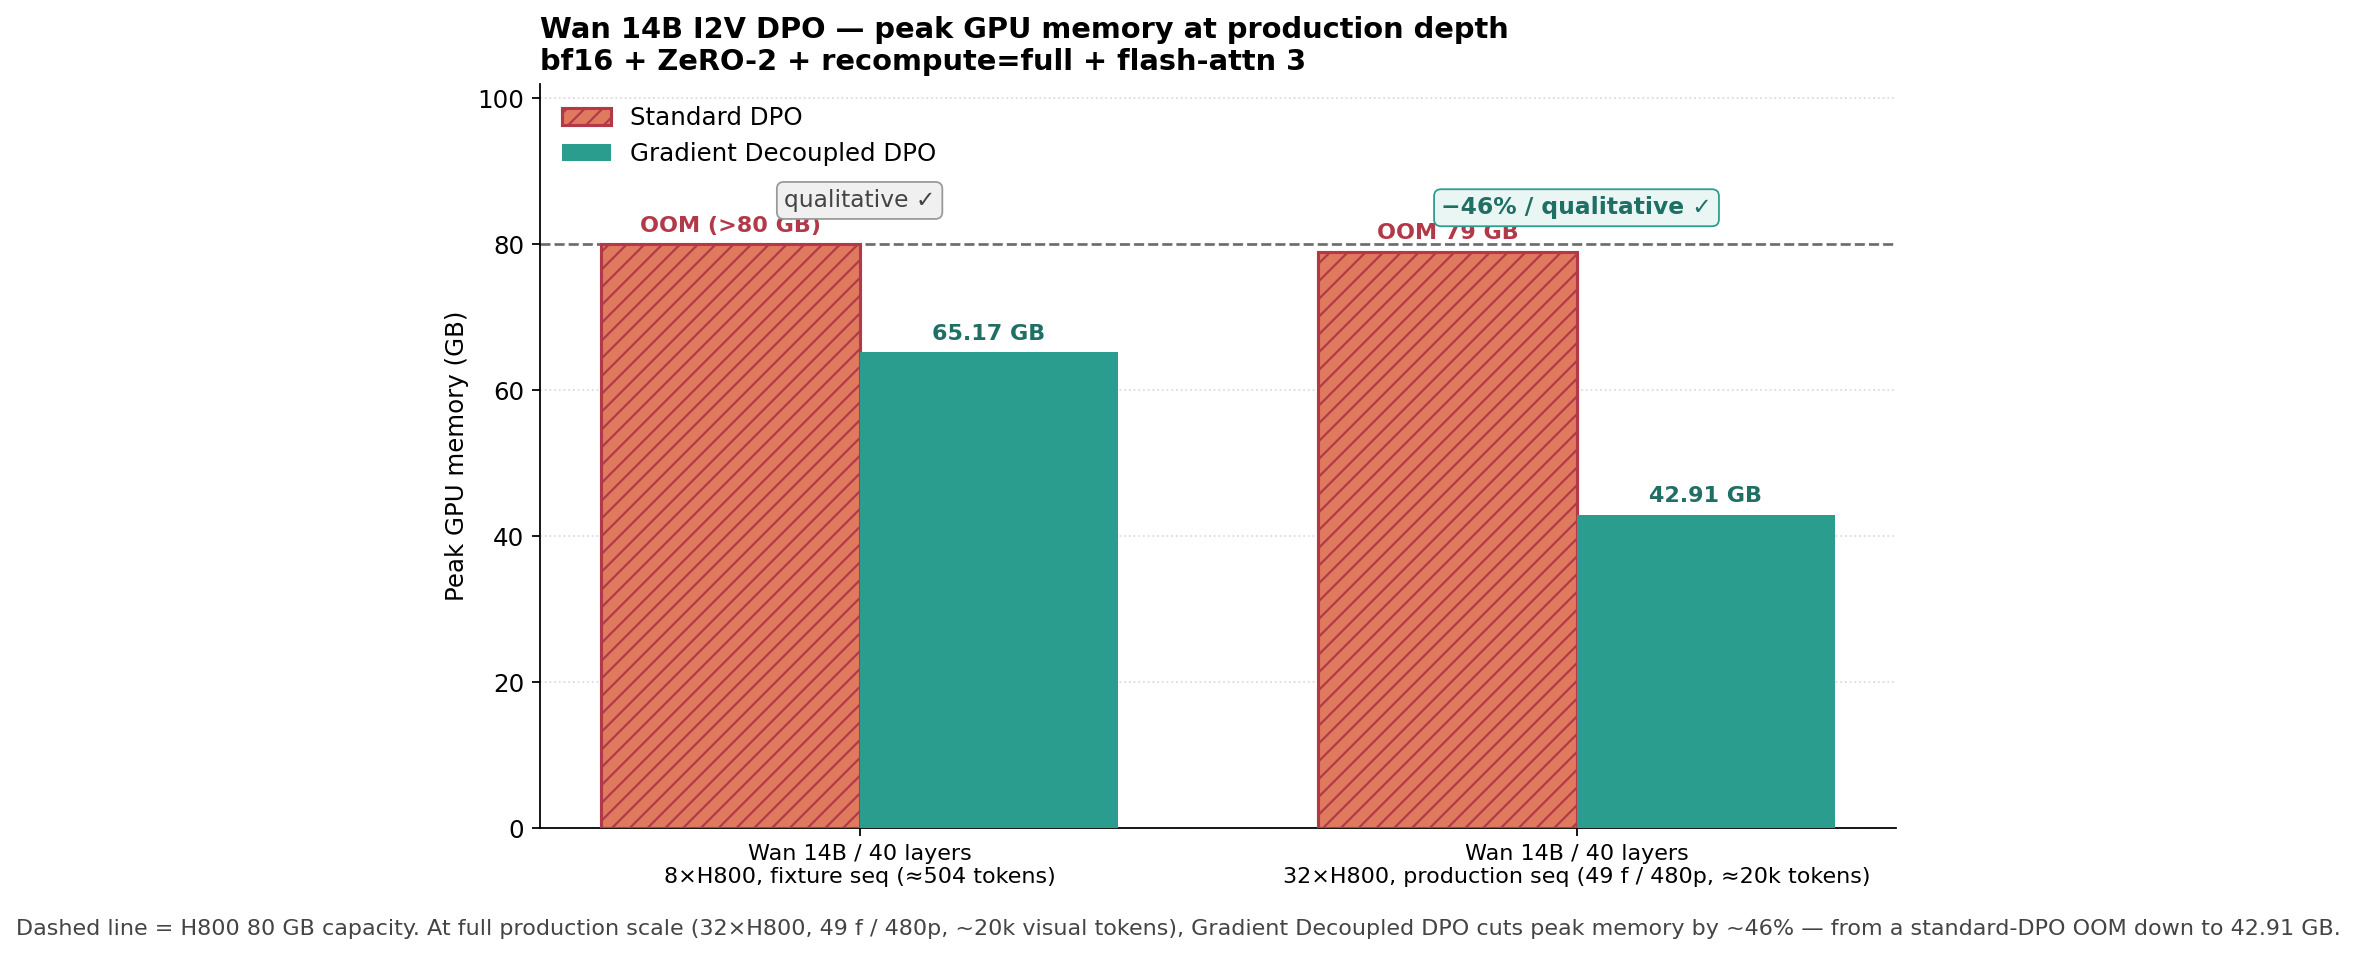
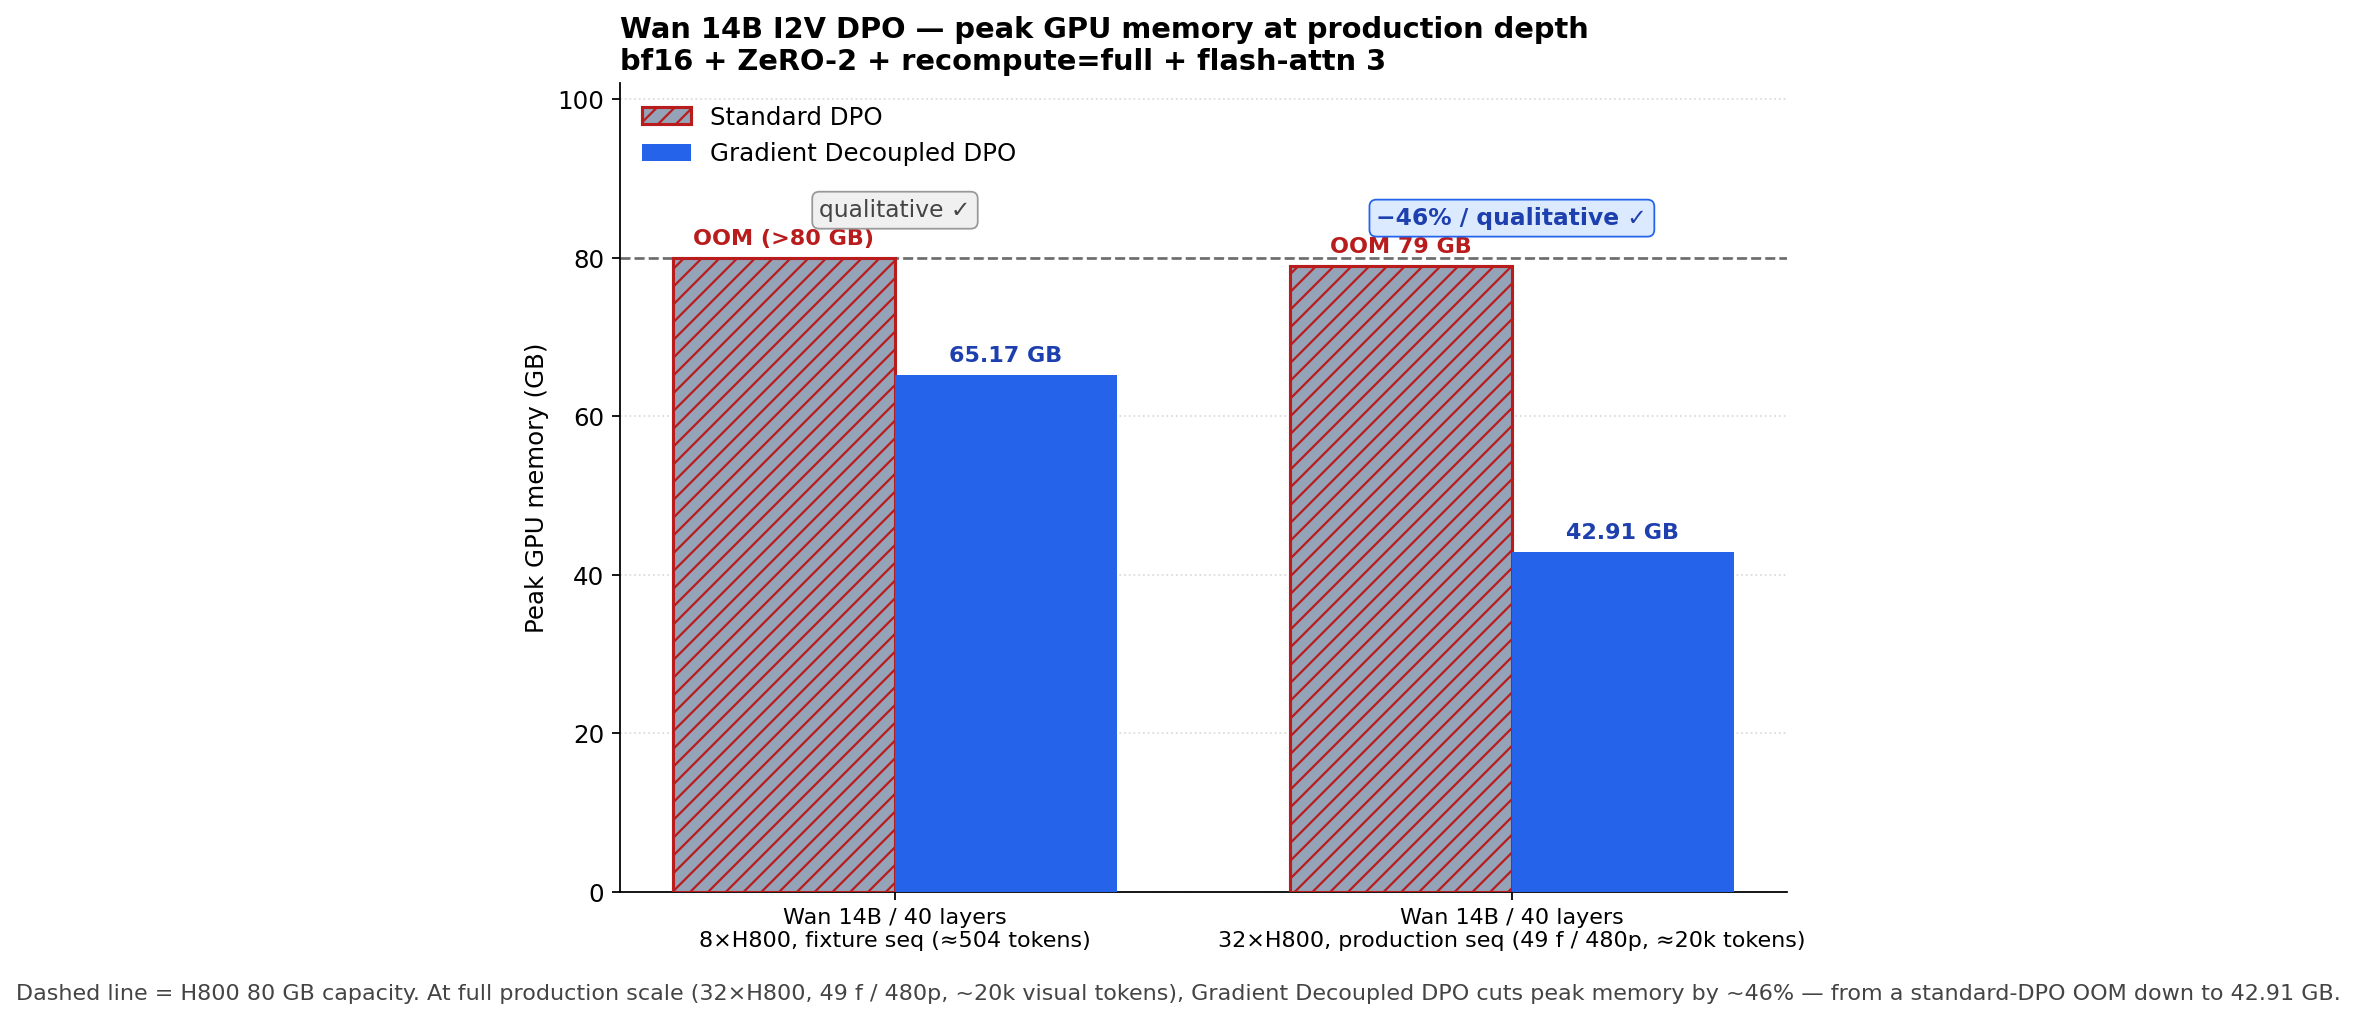
README + hero figure: render fixes and visual polish
README:
* Repository layout: root dir name was Teletron/, now TeleBoost/, to
  match the actual checkout dir of `git clone Tele-AI/TeleBoost`.
* Built on line: replace "+ DeepSpeed ZeRO-2." with
  "and DeepSpeed ZeRO-2." — the leading "+" at line start was being
  rendered as a markdown list item on GitHub, breaking the paragraph
  into a stray bullet.
* Headline blurb: drop the "OOMs at 79 GB" wording — saying a process
  "uses 79 GB" while also saying it OOM'd is internally contradictory.
  Replace with the cleaner "crashes with OOM on the 80 GB H800". The
  79 GB number is still in the table, where the OOM context is clear.

Hero figure (fig_memory_vs_layers.png):
* Recolor: orange-red Standard + teal Decoupled looked harsh.
  Switch to neutral slate-gray (Standard, with red hatching to mark
  OOM) + saturated blue (Decoupled). Δ-badge follows the same blue
  family (light-blue fill, blue-600 border, blue-800 text).
* Re-proportion: figsize 9.5×5.8 → 8.5×6.2 — the previous landscape
  ratio made the bars feel stretched; the slightly squarer frame
  reads more balanced.

diff --git a/documents/figures/make_figures.py b/documents/figures/make_figures.py
@@ -12,9 +12,9 @@ import numpy as np
 
 OUT_DIR = Path(__file__).resolve().parent
 
-C_STANDARD = "#E07A5F"
-C_DECOUPLED = "#2A9D8F"
-C_OOM = "#B23A48"
+C_STANDARD = "#94A3B8"
+C_DECOUPLED = "#2563EB"
+C_OOM = "#B91C1C"
 C_CAP = "#6B6B6B"
 CAPACITY_GB = 80.0
 
@@ -74,7 +74,7 @@ def fig_memory_vs_sequence():
         else:
             _annotate_bar(ax, b.get_x() + b.get_width() / 2, b.get_height(),
                           f"{decoupled_mem[i]:.2f} GB",
-                          color="#1F6F65", weight="bold")
+                          color="#1E40AF", weight="bold")
 
     ax.axhline(CAPACITY_GB, ls="--", color=C_CAP, lw=1.2, zorder=2)
 
@@ -116,7 +116,7 @@ def fig_memory_vs_layers():
     x = np.arange(len(configs))
     width = 0.36
 
-    fig, ax = plt.subplots(figsize=(9.5, 5.8), dpi=160)
+    fig, ax = plt.subplots(figsize=(8.5, 6.2), dpi=160)
     bars_s = ax.bar(x - width / 2, standard, width,
                     color=C_STANDARD, label="Standard DPO", zorder=3)
     bars_d = ax.bar(x + width / 2, decoupled, width,
@@ -136,17 +136,17 @@ def fig_memory_vs_layers():
     for i, b in enumerate(bars_d):
         _annotate_bar(ax, b.get_x() + b.get_width() / 2, b.get_height(),
                       f"{decoupled[i]:.2f} GB",
-                      color="#1F6F65", weight="bold")
+                      color="#1E40AF", weight="bold")
 
     for i, d in enumerate(deltas):
         top = max(standard[i], decoupled[i])
         ax.annotate(d, xy=(x[i], top + 6),
                     ha="center", va="center", fontsize=10.5,
-                    color="#1F6F65" if "−" in d else "#444",
+                    color="#1E40AF" if "−" in d else "#444",
                     fontweight="bold" if "−" in d else "normal",
                     bbox=dict(boxstyle="round,pad=0.3",
-                              fc="#EAF6F3" if "−" in d else "#F0F0F0",
-                              ec="#2A9D8F" if "−" in d else "#999",
+                              fc="#DBEAFE" if "−" in d else "#F0F0F0",
+                              ec="#2563EB" if "−" in d else "#999",
                               lw=0.8))
 
     ax.axhline(CAPACITY_GB, ls="--", color=C_CAP, lw=1.2, zorder=2)

diff --git a/README.md b/README.md
@@ -7,15 +7,15 @@ pattern that **cuts Wan 14B production DPO peak memory by ~46%** on
 and extends to **≥8× the sequence length** the standard implementation
 can handle on the same hardware — with no ceiling reached yet.
 
-Standard DPO at this config OOMs at 79 GB on the 80 GB H800; Decoupled
-DPO finishes with ~37 GB headroom and is mathematically equivalent to
-the single-backward formulation (verified element-wise on 14.78 B
-gradient elements at 32-GPU production shape).
+Standard DPO at this config crashes with OOM on the 80 GB H800;
+Decoupled DPO finishes with ~37 GB headroom and is mathematically
+equivalent to the single-backward formulation (verified element-wise
+on 14.78 B gradient elements at 32-GPU production shape).
 
 Built on [Tele-AI/TeleTron](https://github.com/Tele-AI/TeleTron) — TeleAI's
-long-context multi-modal training framework — and
+long-context multi-modal training framework — together with
 [megatron-core 0.16.1](https://github.com/NVIDIA/Megatron-LM/tree/core_v0.16.1)
-+ DeepSpeed ZeRO-2. Production in TeleAI internally for Wan-family
+and DeepSpeed ZeRO-2. Production in TeleAI internally for Wan-family
 training; this is the OSS release.
 
 <p align="center">
@@ -211,7 +211,7 @@ multi-call epilogue that Gradient Decoupled DPO depends on).
 ## Repository layout
 
 ```
-Teletron/
+TeleBoost/
 ├── README.md           ← you are here
 ├── QUICKSTART.md       ← full setup + first-run guide
 ├── Dockerfile          ← reproducible NGC 25.09 + flash-attn 2/3